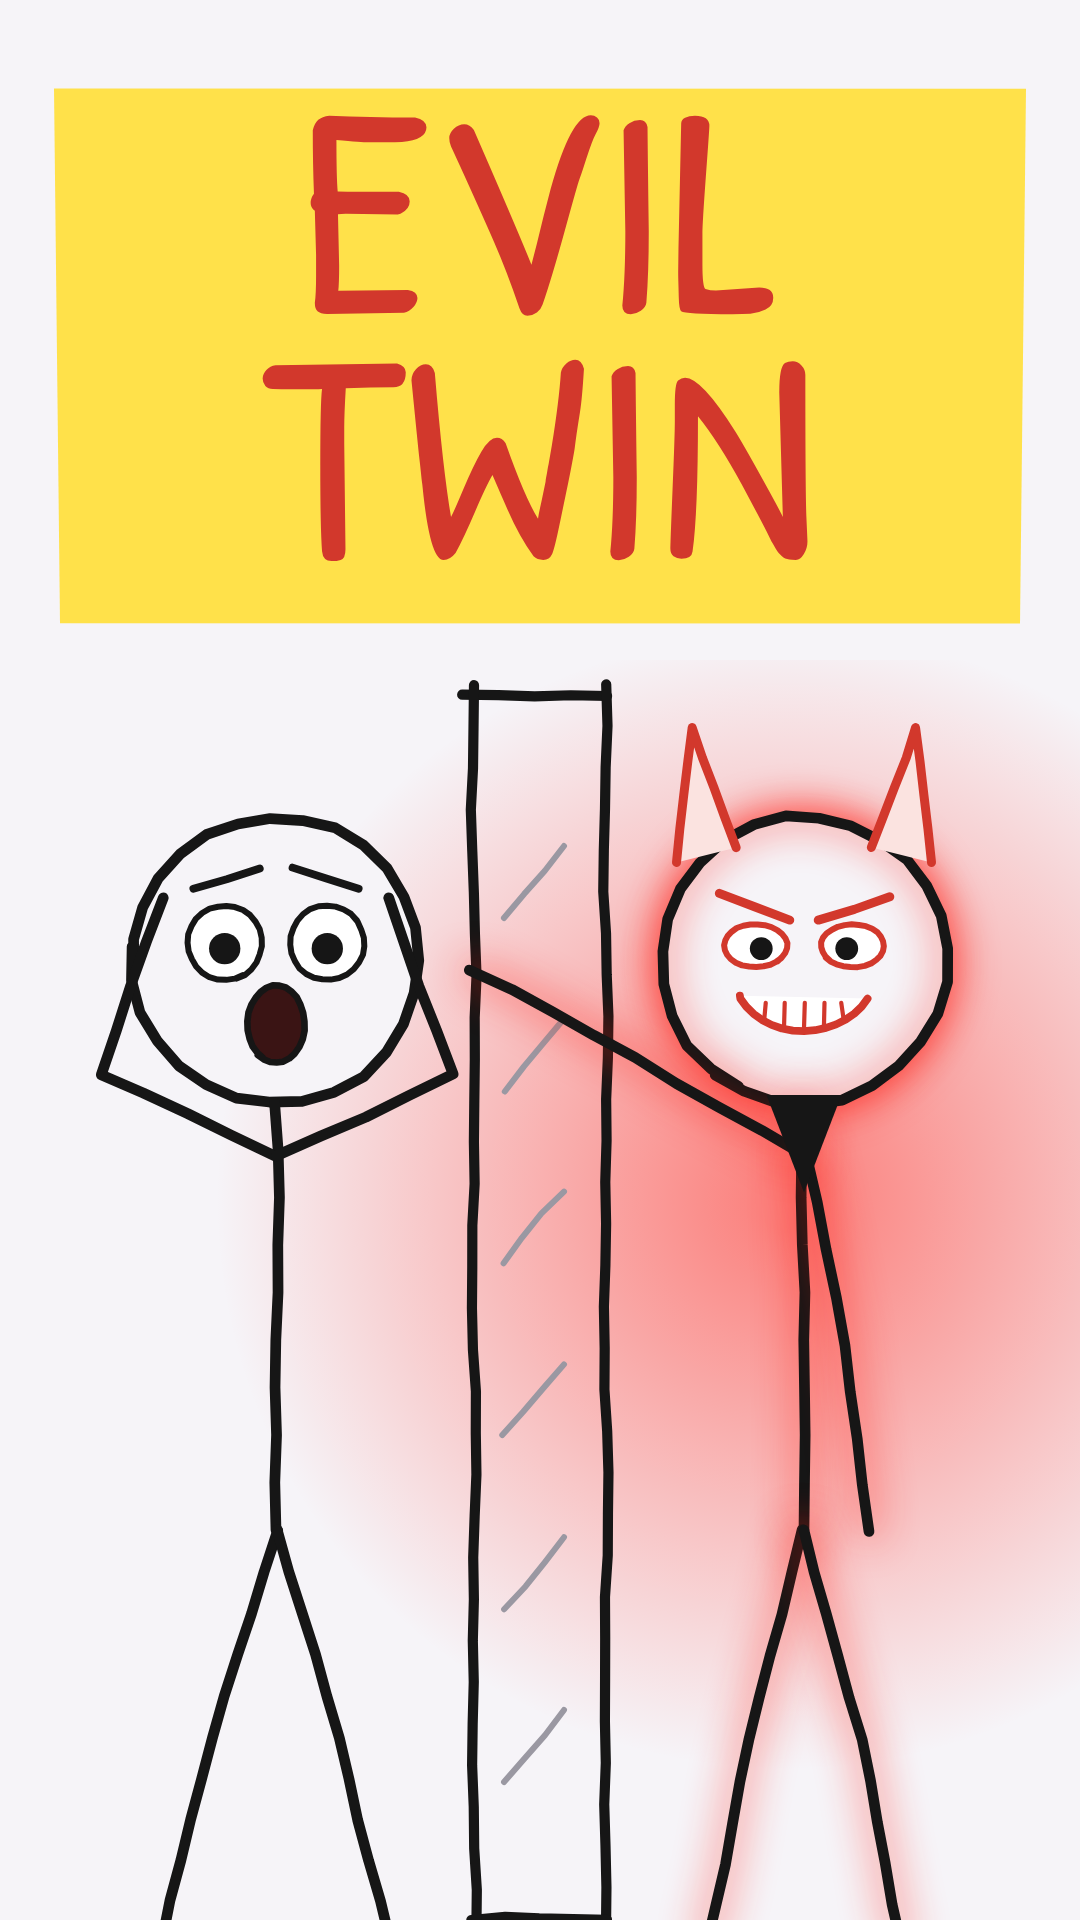
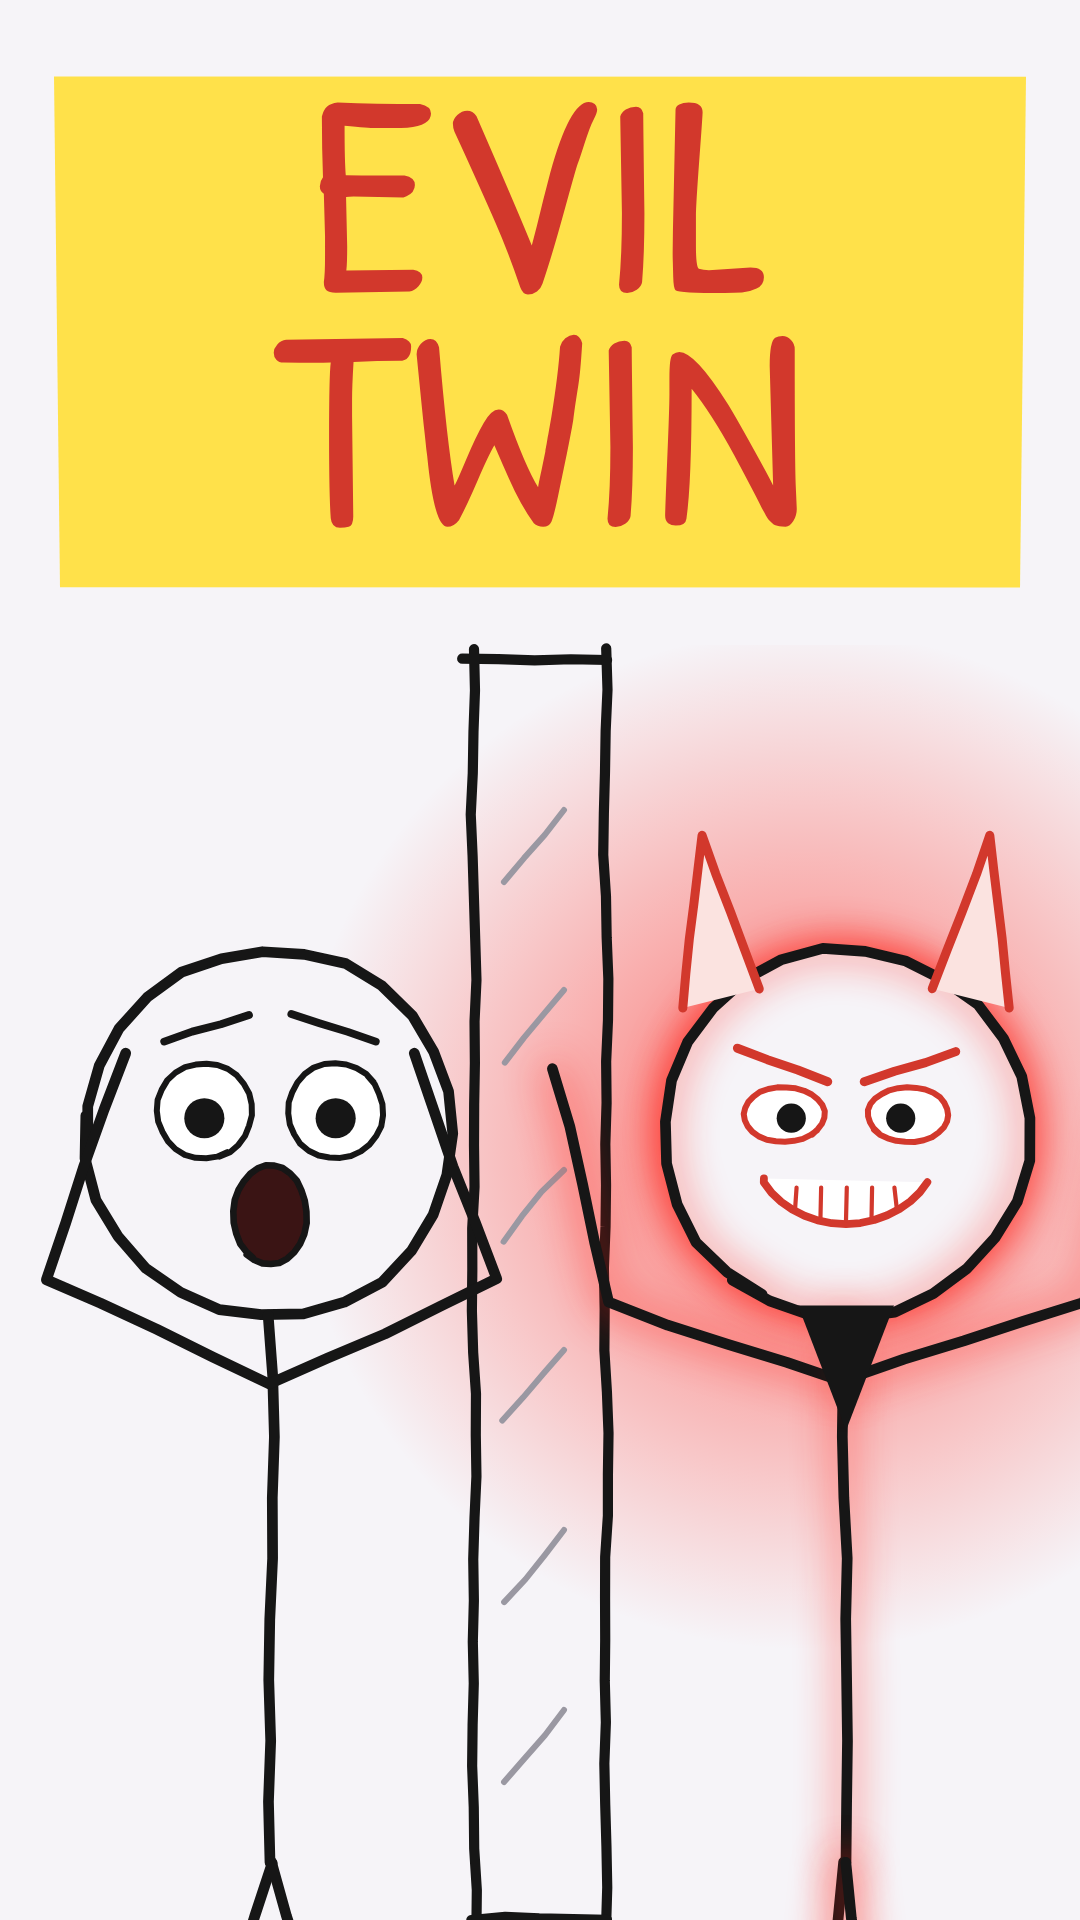
Stronger covers for shorts 4-6 (show the twist, bigger faces) + 2 cover rules
Claude-Session: https://claude.ai/code/session_01QZBGd8qH4EfV1MNE2nHfnB

diff --git a/shorts-source/mobile_covers_v2.js b/shorts-source/mobile_covers_v2.js
@@ -1,0 +1,41 @@
+function glassesFace(x,y,r){ctx.fillStyle='#111';ctx.beginPath();ctx.roundRect(x-r*0.72,y-r*0.36,r*0.62,r*0.38,r*0.12);ctx.roundRect(x+r*0.1,y-r*0.36,r*0.62,r*0.38,r*0.12);ctx.fill();line(x-r*0.12,y-r*0.2,x+r*0.12,y-r*0.2,9400,1,2.4);
+  ctx.fillStyle='#3a1414';ctx.beginPath();ctx.ellipse(x,y+r*0.45,r*0.2,r*0.27,0,0,TAU);ctx.fill();circ(x,y+r*0.45,r*0.2,{ry:r*0.27,seed:9401,w:2.2});
+  for(const sd of[-1,1])line(x+sd*r*0.12,y-r*0.62,x+sd*r*0.58,y-r*0.5,9402+sd,1,2.6);}
+function coldFace(x,y,r){for(const sd of[-1,1]){ctx.fillStyle='#fff';ctx.beginPath();ctx.arc(x+sd*r*0.36,y-r*0.12,r*0.24,0,TAU);ctx.fill();circ(x+sd*r*0.36,y-r*0.12,r*0.24,{seed:9410+sd,w:2});
+    ctx.fillStyle=INK;ctx.beginPath();ctx.arc(x+sd*r*0.36,y-r*0.1,r*0.1,0,TAU);ctx.fill();line(x+sd*r*0.12,y-r*0.64,x+sd*r*0.58,y-r*0.5,9420+sd,1,2.6);}
+  // chattering teeth
+  ctx.fillStyle='#fff';ctx.fillRect(x-r*0.42,y+r*0.32,r*0.84,r*0.3);rect(x-r*0.42,y+r*0.32,r*0.84,r*0.3,9430,1,2.2);for(let i=1;i<5;i++)line(x-r*0.42+i*r*0.168,y+r*0.32,x-r*0.42+i*r*0.168,y+r*0.62,9431+i,1,1.6);
+  line(x-r*0.42,y+r*0.47,x+r*0.42,y+r*0.47,9440,1,1.6);
+  // icicles on the head
+  for(let i=-2;i<=2;i++){const ix=x+i*r*0.3,iy=y-r*0.93+Math.abs(i)*r*0.06;fillPts([[ix-r*0.09,iy],[ix+r*0.09,iy],[ix,iy+r*0.32]],'#bfe9ff');strokePts([[ix-r*0.09,iy],[ix,iy+r*0.32],[ix+r*0.09,iy]],1,1.6,'#3fb5f0');}}
+const HUG={la:[-0.55,1.45],ra:[0.55,-1.45],ll:[-0.12,-0.1],rl:[0.12,0.1],paper:0};
+function cover2(kind){ctx.setTransform(1,0,0,1,0,0);ctx.fillStyle=BG;ctx.fillRect(0,0,W,H);ctx.scale(3,3);
+  if(kind==='twin'){
+    bar(18,24,324,170,11);txt('EVIL',180,72,96,{col:RED});txt('TWIN',180,150,96,{col:RED});
+    const g=ctx.createRadialGradient(268,380,10,268,380,170);g.addColorStop(0,'rgba(255,40,30,0.6)');g.addColorStop(1,'rgba(255,40,30,0)');ctx.fillStyle=g;ctx.fillRect(110,215,250,425);
+    mirrorFrame(180,220,640,1);
+    const S=1.6,FY=800;figure(90,FY,PANIC,{s:S,seed:9100});shockFace(90,FY-264*S,38*S);
+    const CLAW={la:[-1.9,-2.9],ra:[1.9,2.9],ll:[-0.12,-0.1],rl:[0.12,0.1],paper:0};glow('rgba(255,30,20,0.9)',40);figure(282,FY,CLAW,{s:S,seed:9110});noGlow();horns(282,FY,S,1);evilFace(282,FY-264*S,38*S);
+  }else if(kind==='eclipse'){
+    txt('NO MORE',180,62,80,{});bar(12,100,336,94,13);txt('ECLIPSES',180,147,90,{col:RED});
+    const X=205,Y=360,R=118;
+    glow('rgba(255,170,0,1)',80);for(let i=0;i<26;i++){const a=i/26*TAU;const l=R*(1.2+0.18*Math.sin(i*3.7));line(X+Math.cos(a)*R*1.06,Y+Math.sin(a)*R*1.06,X+Math.cos(a)*l,Y+Math.sin(a)*l,9500+i,1,3.4,'#ffb300');}
+    ctx.fillStyle='#ffd34d';ctx.beginPath();ctx.arc(X,Y,R,0,TAU);ctx.fill();noGlow();circ(X,Y,R,{seed:9530,w:3.4});
+    // the black-hole Moon: a tiny dot that can't cover the Sun
+    ctx.fillStyle='#000';ctx.beginPath();ctx.arc(X+10,Y+5,6,0,TAU);ctx.fill();
+    circ(X+10,Y+5,26,{seed:9531,w:4,col:RED});arrow(X+95,Y-110,X+32,Y-16,{seed:9532,w:4,head:14,col:RED});
+    const S=1.05,FX=78,FY=700;figure(FX,FY,POSES.point,{s:S,seed:9540});glassesFace(FX,FY-264*S,38*S);
+  }else{
+    txt('COLDER',180,70,104,{col:'#1764c4'});bar(14,112,332,86,15);txt('THAN SPACE',180,154,70,{});
+    const X=215,Y=360,R=100;
+    glow('rgba(80,200,255,1)',80);ctx.strokeStyle='#7fd8ff';ctx.lineWidth=7;ctx.beginPath();ctx.arc(X,Y,R*1.16,0,TAU);ctx.stroke();noGlow();
+    ctx.fillStyle='#050508';ctx.beginPath();ctx.arc(X,Y,R,0,TAU);ctx.fill();
+    for(let i=0;i<12;i++){const a=i/12*TAU+0.2;const x0=X+Math.cos(a)*R*1.18,y0=Y+Math.sin(a)*R*1.18;fillPts([[x0-4,y0],[x0+4,y0],[x0+Math.cos(a)*14,y0+Math.sin(a)*14]],'#bfe9ff');}
+    for(const[sx,sy]of[[320,240],[318,500],[150,230]])for(let k=0;k<3;k++){const a=k/3*Math.PI;line(sx-Math.cos(a)*12,sy-Math.sin(a)*12,sx+Math.cos(a)*12,sy+Math.sin(a)*12,9620+k+sx,1,2.6,'#3fb5f0');}
+    const S=1.15,FX=78,FY=740;figure(FX,FY,HUG,{s:S,seed:9640});coldFace(FX,FY-264*S,38*S);shakeMarks(FX,FY-264*S,46,9650,1);
+    // breath cloud
+    const cp=cloudPath(FX+62,FY-264*S+22,20,12,9660);fillPts(cp,'#ffffff');strokePts(wob(cp,9661,0.5),1,2,'#3fb5f0');
+  }
+}
+window.ready=Promise.all([document.fonts.load('40px "PH"'),document.fonts.load('40px "PHL"')]).then(()=>document.fonts.ready).then(()=>cover2(window.KIND));
+</script></body></html>

diff --git a/CLAUDE.md b/CLAUDE.md
@@ -54,6 +54,9 @@ After each upload, add its 48 h and 7-day numbers there. Change a rule only when
 4. **Text = 2–3 huge words in the top third only.** Nothing in the bottom quarter or the bottom-right corner
    (duration badge / app buttons / title).
 5. **Big stick figure with a clear reaction** (shock, or an evil grin) close to the event.
+6. **Show the twist, not just the claim:** the image must raise a "why?" (e.g. a giant Sun with a tiny circled
+   black dot = the Moon can't cover it). A crossed-out object alone reads as a "no entry" sign.
+7. **Faces big, legs cropped:** feet may leave the frame; the faces are what the eye locks onto.
 - Always check a 180×320 (Shorts) / 320×180 (long) downscale before publishing.
 - Make 3 different concepts per long video for Test & Compare.
 - Note: in the Shorts feed viewers see the **first frame**, not the cover — the cover matters for the channel page
